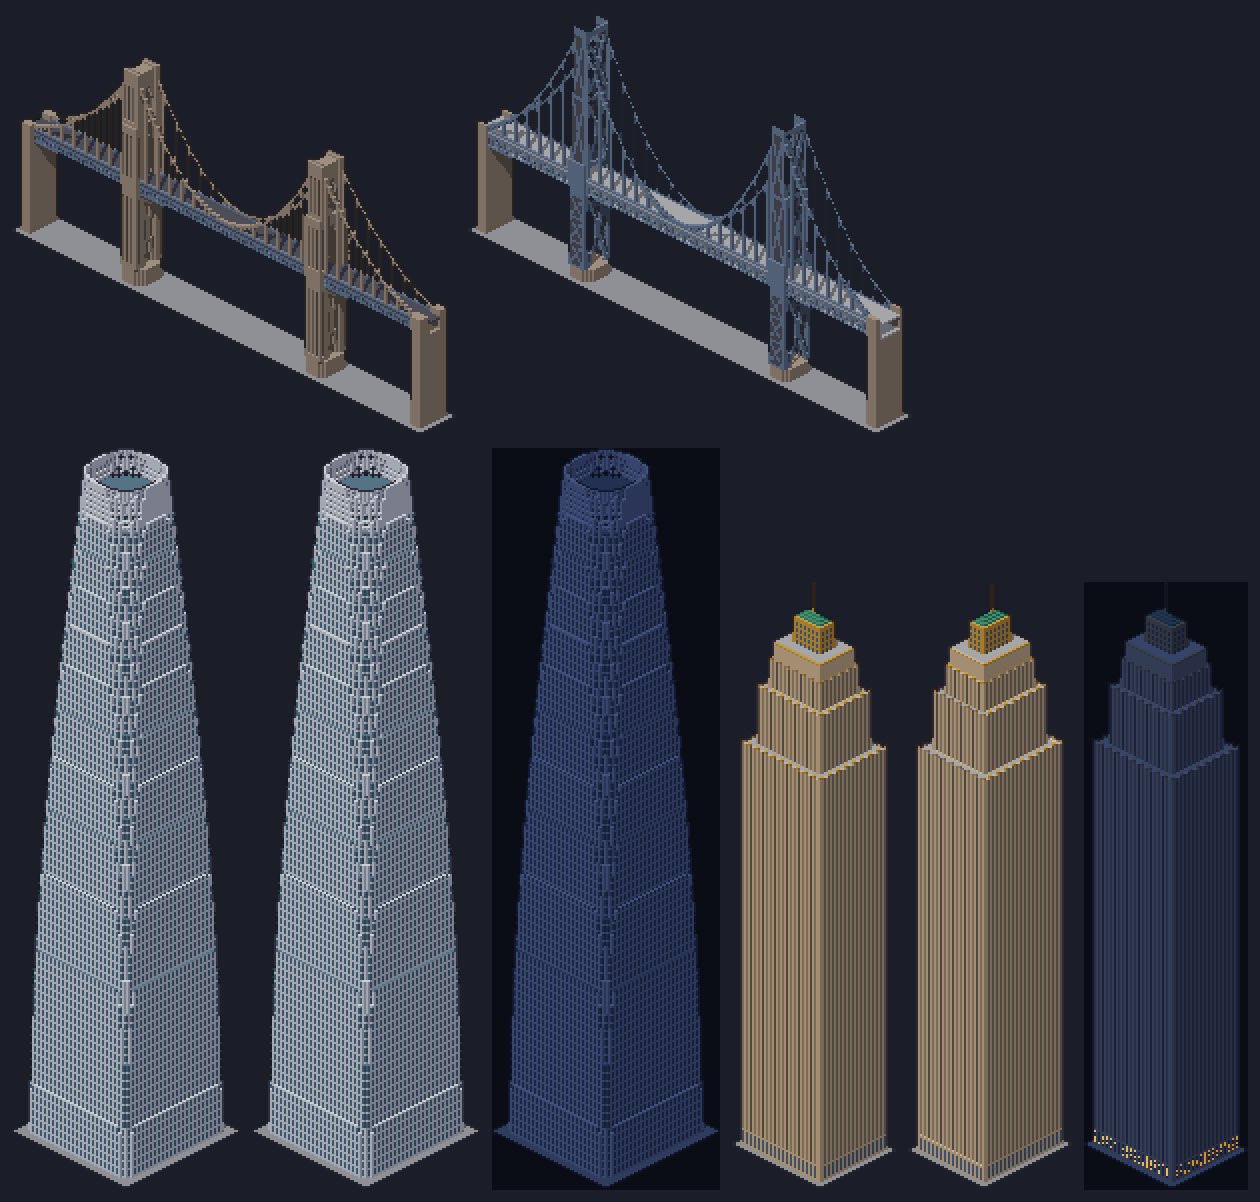
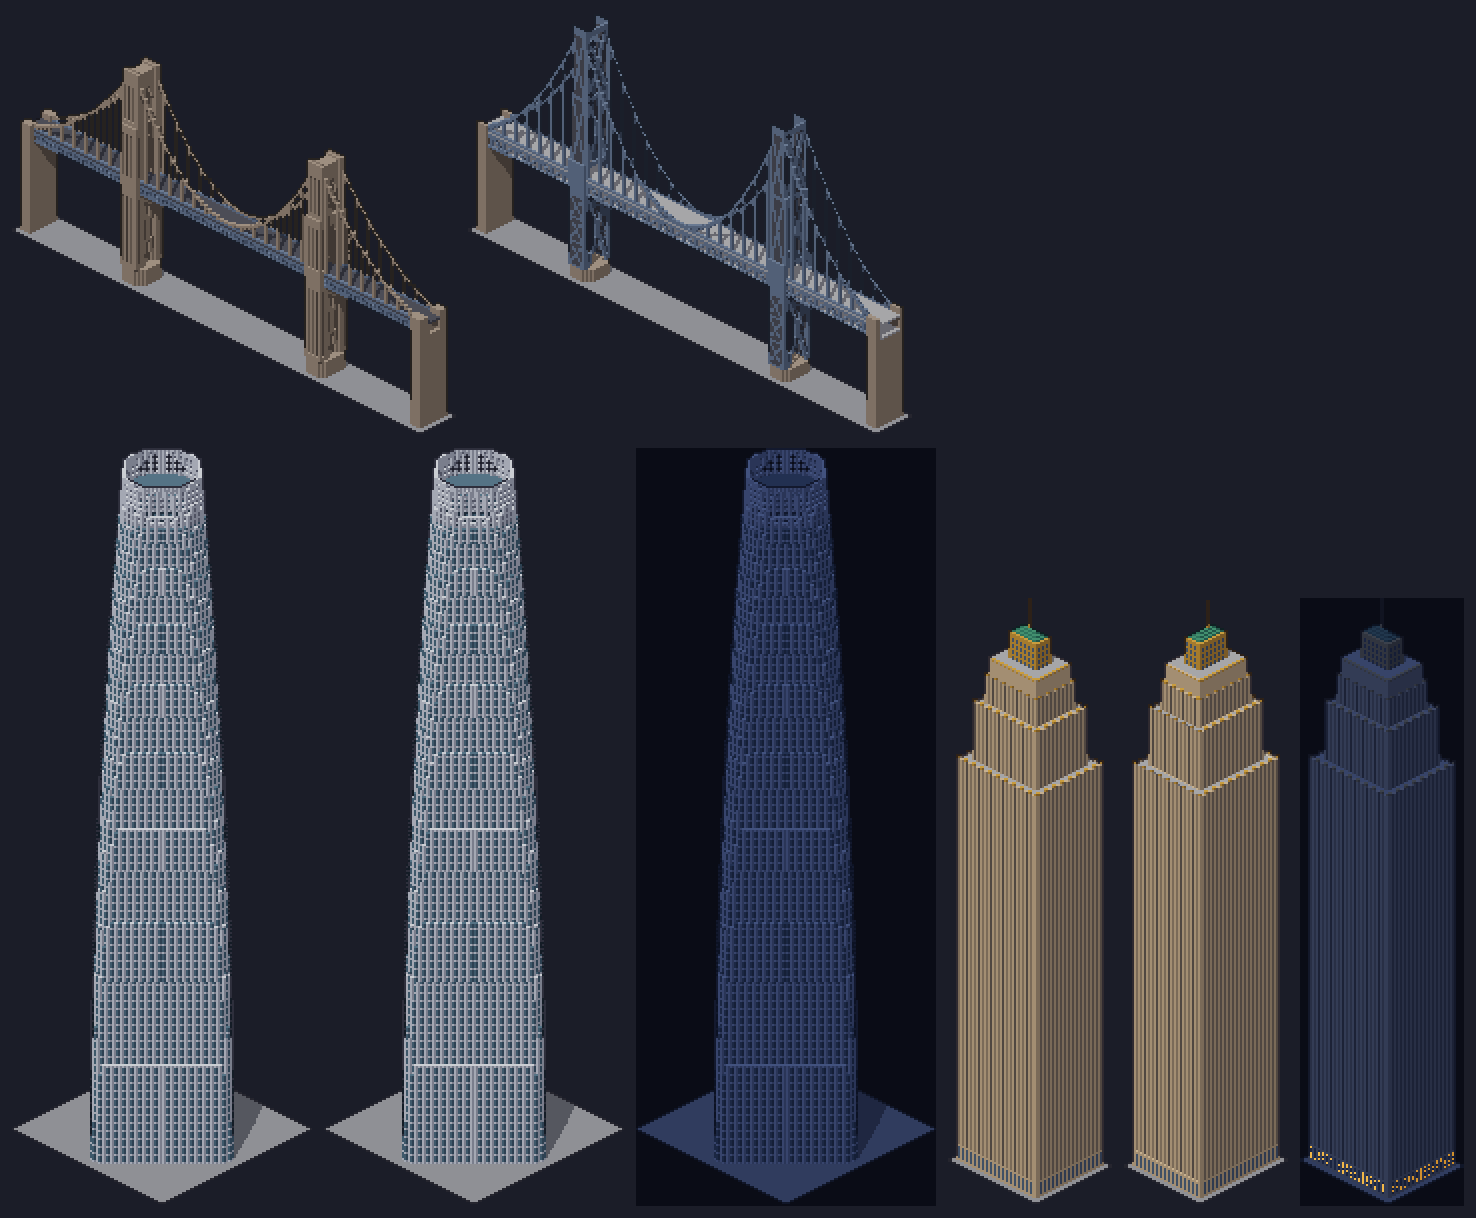
new-york: the landmark groups the New York spec names (D-081)
- landmark.tower.obelisk.diagonal (One World Trade Center): obeliskTower
  turned 45 degrees, in curtain glass.
- landmark.tower.gothic (the Woolworth Building): decoTower with two
  setbacks and its lantern crown under a copper cap, in pale terracotta.
  It replaces landmark.tower.setback.
- landmark.bridge.suspension now serves both East River bridges: stone
  towers with a steel truss. The steel variant stays beside it.

The style guide's table, D-081 and the landmarks image follow.

diff --git a/docs/decisions.md b/docs/decisions.md
@@ -863,7 +863,7 @@ The point is more room for visual interest; both halves are wanted.
 - **Why:** New York is next (D-078). Its first world is the walking level of Lower Manhattan, and that city reads by a fabric San Francisco's generators can't draw: brownstone stoops and bracketed cornices, fire escapes over shopfronts, cast-iron fronts, and prewar blocks with water tanks on the roof. A style pack alone can recolour `rowhouse` and `block`, but it can't add those parts.
 - **How:**
   - **The style pack** `worlds/_styles/new-york` is a full pack, copied from `bay-area`'s layout. It has 41 ramps (D-075's limit is 42): brownstone, red and buff brick, limestone, granite, painted cast iron, terracotta, verdigris, curtain glass, black iron, cedar, the harbour, bridge stone and steel, shop signs, and taxi yellow. San Francisco's fog areas are dropped. It names `["@pixelworlds/city-sf", "@pixelworlds/city-nyc"]`, so SF's `block`, `decoTower`, `sfTower` and `lanterns` are reused for commercial blocks, piers, warehouses, towers and Chinatown's lanterns.
-  - **The asset groups are the contract the specs' rules target:** the five every pack has; `building.brownstone`, `.tenement` (and `.tenement.chinatown`), `.loft.castiron`, `.apartment.prewar`, `.commercial.historic`, `.house`, `.industrial` and `.pier`; the towers `building.tower.deco`, `.slab`, `.postmodern` and `.glass`; `tree.street`; bay-area's `prop.*` and `vehicle.*`; and the landmarks `landmark.bridge.suspension` (stone towers), `.suspension.steel`, `landmark.tower.obelisk`, `landmark.tower.setback` and `landmark.hall.domed`. The landmarks use built-in generators, and the setback tower uses SF's `decoTower`.
+  - **The asset groups are the contract the specs' rules target:** the five every pack has; `building.brownstone`, `.tenement` (and `.tenement.chinatown`), `.loft.castiron`, `.apartment.prewar`, `.commercial.historic`, `.house`, `.industrial` and `.pier`; the towers `building.tower.deco`, `.slab`, `.postmodern` and `.glass`; `tree.street`; bay-area's `prop.*` and `vehicle.*`; and the landmarks the New York spec names: `landmark.bridge.suspension` (stone towers and a steel truss, for both East River bridges), `landmark.tower.obelisk.diagonal` (One World Trade Center) and `landmark.tower.gothic` (the Woolworth Building). Beside them are `.suspension.steel`, `landmark.tower.obelisk` and `landmark.hall.domed`. The landmarks use built-in generators; the gothic tower uses SF's `decoTower` with its lantern crown under a copper cap.
   - **The plugin** `packages/city-nyc` is wired as `city-sf` is (`generators.ts`, `plugin.ts`, `worker.ts`, `index.ts`, `build.mjs`, whose worker-URL rewrite now matches the package's own entry and no hardcoded name). It has four generators: `brownstone`, `tenement`, `castIronLoft` and `prewarBlock` (style guide §19). Core lists them in `KNOWN_PLUGIN_GENERATORS`. The viewer (`CITY_PACKS`), the example game and the model preview load the plugin.
   - **The building rules hold** (inside the footprint, no overhangs, glass only on the skin, no lettering). Cornices and fire escapes are painted flush, and a stoop gets room by setting the facade back. Tests check every group of the pack over footprints from 1 × 4 to 40 × 32, diagonals and heights up to 140 voxels, and also the stoops, fire escapes, tanks and determinism.
 - **Rejected alternatives:**
@@ -874,5 +874,5 @@ The point is more room for visual interest; both halves are wanted.
 - **Later:**
   - **Publishing `@pixelworlds/city-nyc`.** It is `private` for now. Publishing needs `tools/city-pack-check.mjs` and CI to cover a second pack, a changeset, and a consumer example.
   - **Fabric this leaves out:** rear fire escapes, dumbbell light wells, mansard roofs, Federal houses' dormers, and vault-light sidewalks.
-  - **Landmark shapes:** the Woolworth Building's Gothic crown and One World Trade Center's spire are generic (a lantern, a lattice crown). Canonical depictions follow data-sources.md §7.
+  - **Landmark shapes:** the Woolworth Building's crown and One World Trade Center's spire are generic: a lantern under a low copper pyramid, and a lattice crown. A steeper, Gothic crown needs a `decoTower` parameter for the cap's pitch, or a crown generator of its own. Canonical depictions follow data-sources.md §7.
   - **The specs** in `worlds/nyc/` map PLUTO's classes and LPC's materials (the facts plugin's `materials:` rule) to these groups.

diff --git a/docs/style-guide.md b/docs/style-guide.md
@@ -421,7 +421,7 @@ A variant names its parent and only what changes:
 
 ![New York's fabric from the model preview, 3×: brownstones, tenements, cast-iron lofts and prewar blocks, three seeds each in rotations 0 and 3, and one at night](images/nyc-fabric.png)
 
-![New York's landmarks, 2×: the stone and the steel suspension bridges, the tapered tower and the setback tower, by day and night](images/nyc-landmarks.png)
+![New York's landmarks, 2×: the stone and the steel suspension bridges, the tapered tower on the diagonal and the gothic setback tower, by day and night](images/nyc-landmarks.png)
 
 A full pack (`worlds/_styles/new-york/style.json`), laid out like `bay-area` but with its own 41 ramps and no fog. It names two plugins, `["@pixelworlds/city-sf", "@pixelworlds/city-nyc"]`: San Francisco's for `block`, `decoTower`, `sfTower` and `lanterns`, New York's for the four generators below (`packages/city-nyc`).
 
@@ -450,10 +450,10 @@ A full pack (`worlds/_styles/new-york/style.json`), laid out like `bay-area` but
 
 | Group | Generator | Landmark |
 |---|---|---|
-| `landmark.bridge.suspension` | `suspensionBridge` (portal towers, two struts, massive legs) | the Brooklyn Bridge: stone towers and anchorages, a steel truss |
-| `landmark.bridge.suspension.steel` | `suspensionBridge` (braced towers, side-braced, double deck) | the Manhattan Bridge, blue-grey steel |
-| `landmark.tower.obelisk` | `obeliskTower` | One World Trade Center: a tapering glass tower with a lattice crown |
-| `landmark.tower.setback` | `decoTower` (two setbacks, a lantern crown) | the Woolworth Building: buff terracotta with gold trim and a copper cap |
+| `landmark.bridge.suspension` | `suspensionBridge` (portal towers, two struts, massive legs) | the Brooklyn and Manhattan Bridges: stone towers and anchorages, a steel truss |
+| `landmark.bridge.suspension.steel` | `suspensionBridge` (braced towers, side-braced, double deck) | a steel suspension bridge in blue-grey, for the Manhattan Bridge where a spec wants it apart |
+| `landmark.tower.obelisk.diagonal` | `obeliskTower` (turned 45°) | One World Trade Center: a tapering glass tower with a lattice crown; `landmark.tower.obelisk` is the same, square to the grid |
+| `landmark.tower.gothic` | `decoTower` (two setbacks, a lantern crown) | the Woolworth Building: pale terracotta with gold trim, and a lantern under a pointed copper cap with a finial |
 | `landmark.hall.domed` | `domedHall` | City Hall: limestone, with a copper dome |
 
 **Street and traffic:** every `prop.*` and `vehicle.*` group that `bay-area` has, in New York's palette. Street lights and signals are grey, with yellow signal heads. Yellow cabs are commoner than the generator's own share: the `taxi` paint is listed twice among the `paint.*` variants, and the player's car is a cab. Buses are white with a blue band. One ferry livery is orange.
